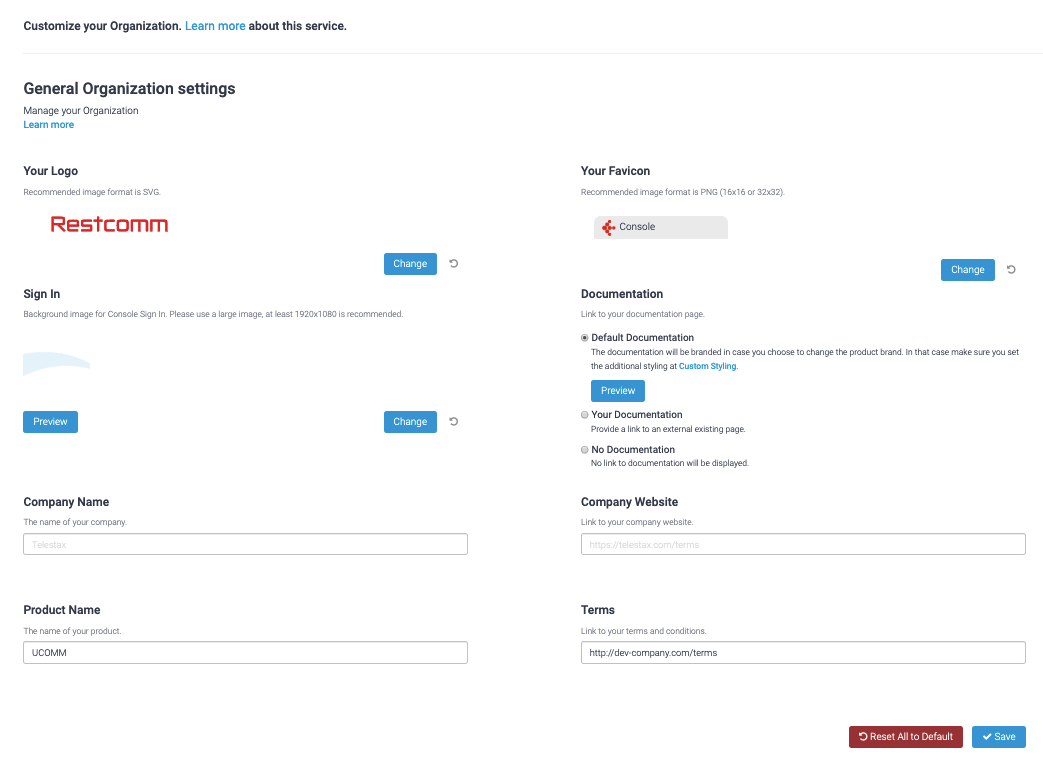
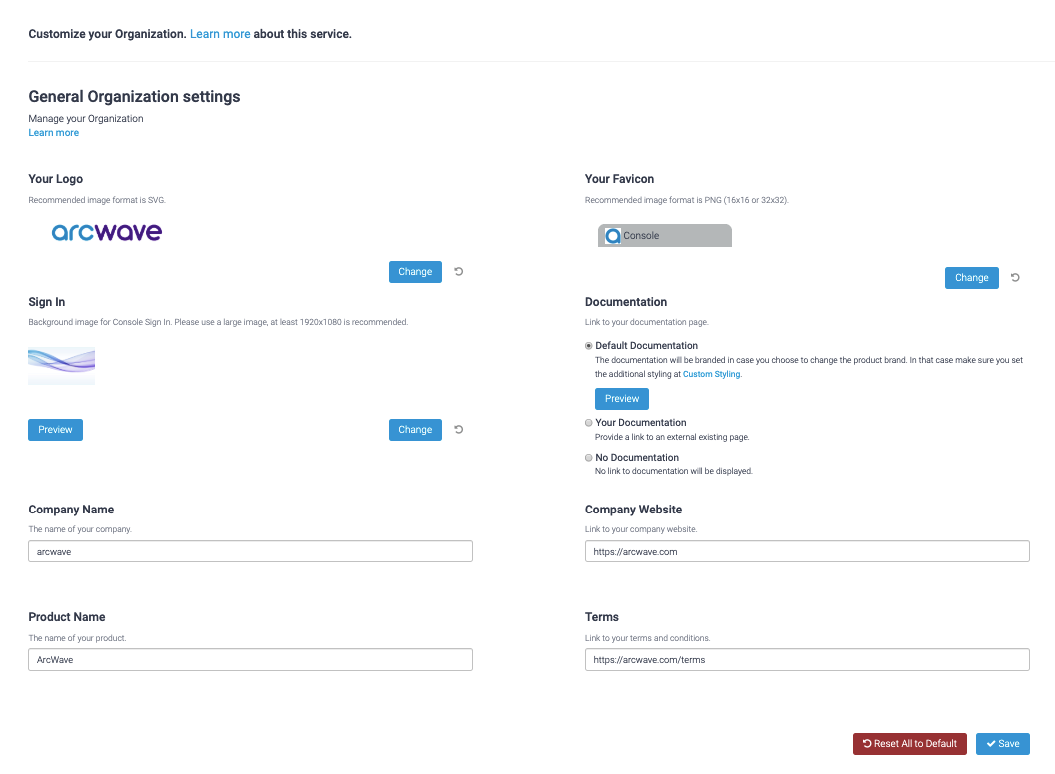
Updated Antora staged documentation

diff --git a/docs/1.0/enterprise/tutorials/Two-factor-Authentication-2FA.html b/docs/1.0/enterprise/tutorials/Two-factor-Authentication-2FA.html
@@ -35,7 +35,7 @@
   <!-- TODO: need to improve the variable used to decide displaying this nav -->
   <nav class="navbar-enterprise">
     <div class="navbar-enterprise-button-container">
-      <button class="navigation-toggle icon-custom-font-right" style="visibility: hidden;">
+      <button class="navigation-toggle icon-custom-font-right">
       </button>
       <!--
       <span class="icon-custom-font-x"><span class="icon-custom-font-back-hamburger"><span class="icon-custom-font-left"><span class="icon-custom-font-right">
@@ -57,7 +57,7 @@
   </nav>
 </header>
 <div class="main-wrapper">
-<div class="navigation-container" data-component="docs" data-version="1.0"  style="display: none;">
+<div class="navigation-container" data-component="docs" data-version="1.0" >
   <aside class="navigation">
     <div class="panels">
   <div class="navigation-menu is-active" data-panel="menu">

diff --git a/docs/1.0/whitelabeling.html b/docs/1.0/whitelabeling.html
@@ -1763,6 +1763,9 @@ _sip._udp.&lt;your custom domain&gt;. SRV 0 5 5060 &lt;PoP specific SIP domain, 
 </li>
 </ul>
 </div>
+<div class="paragraph">
+<p>You can check out an example of arcwaves&#8217;s organization documentation <a href="https://acme.restcomm.com/docs/">here</a>.</p>
+</div>
 <div class="imageblock">
 <div class="content">
 <img src="_images/whitelabeling/Setting_up_your_custom_styling.png" alt="Setting up your custom styling">
